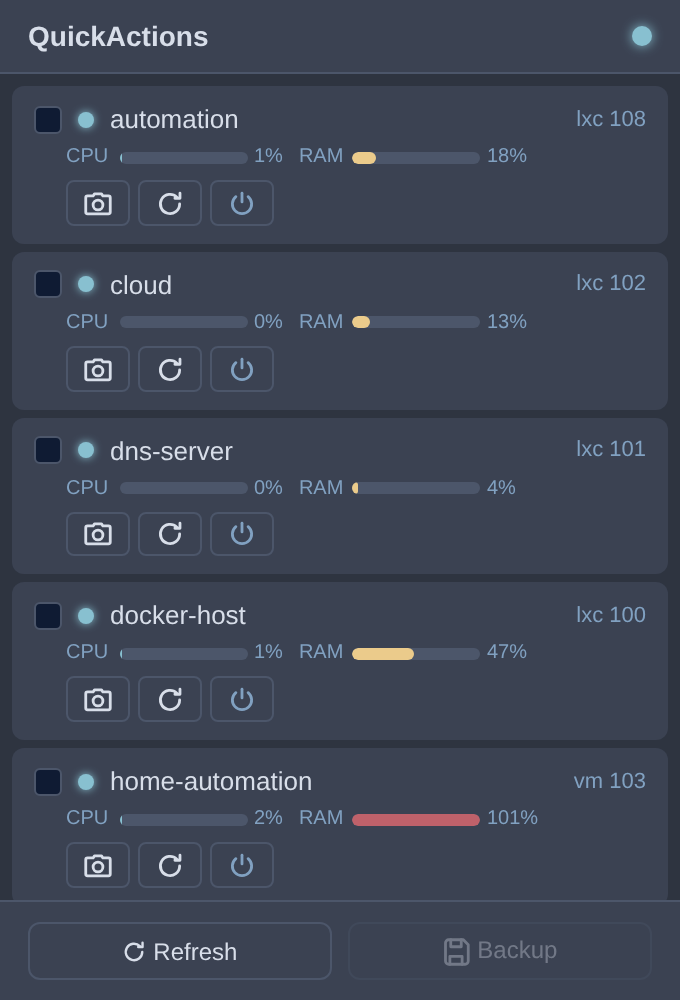
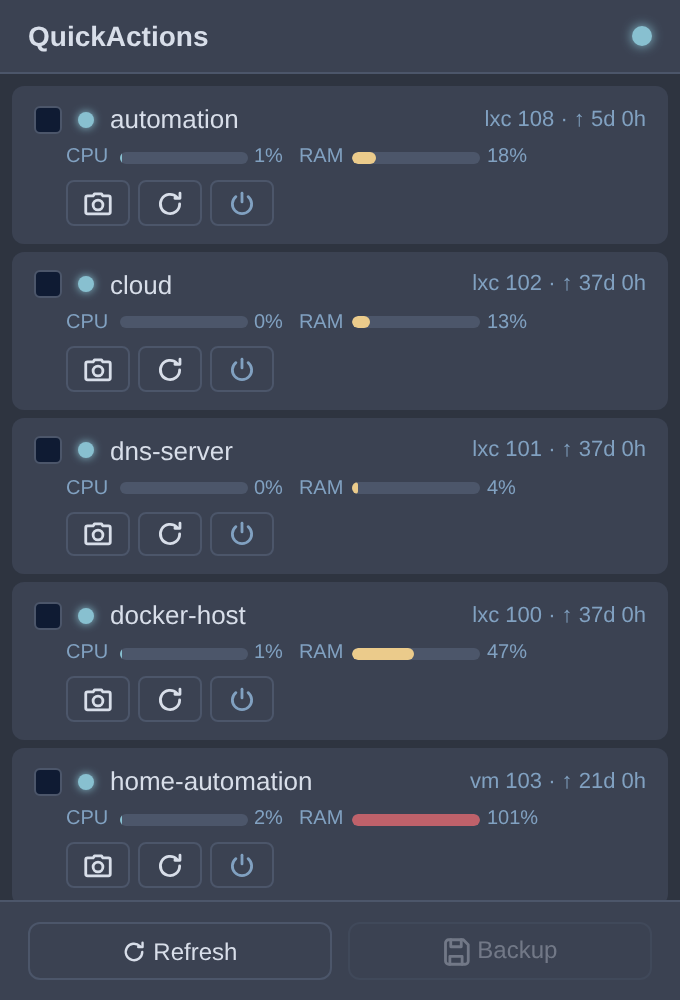
Show uptime in the guest meta line (compact: 'lxc 100 · ↑ 37d 12h')
- Running guests show formatted uptime next to type/ID, stopped ones don't
- Updated on auto-refresh too (meta line is kept in sync in-place)
- Re-rendered theme screenshots via mock harness

diff --git a/popup.js b/popup.js
@@ -180,7 +180,9 @@ function renderResource(res) {
 
   const meta = document.createElement("span");
   meta.className = "resource-meta";
-  meta.textContent = `${typeLabel} ${vmid}`;
+  meta.textContent = isRunning && res.uptime
+    ? `${typeLabel} ${vmid} · ↑ ${formatUptime(res.uptime)}`
+    : `${typeLabel} ${vmid}`;
   row.appendChild(meta);
 
   entry.appendChild(row);
@@ -235,6 +237,14 @@ function updateResourceEntry(entry, res) {
   if (name) {
     name.textContent = resName;
     name.title = `${node} / ${type}/${vmid}`;
+  }
+
+  // Meta-Zeile: Uptime live mithalten (Auto-Refresh)
+  const meta = entry.querySelector(".resource-meta");
+  if (meta) {
+    meta.textContent = isRunning && res.uptime
+      ? `${type === "lxc" ? "lxc" : "vm"} ${vmid} · ↑ ${formatUptime(res.uptime)}`
+      : `${type === "lxc" ? "lxc" : "vm"} ${vmid}`;
   }
 
   // --- Row 2: Bars aktualisieren (in-place, kein Neu-Bau) ---
